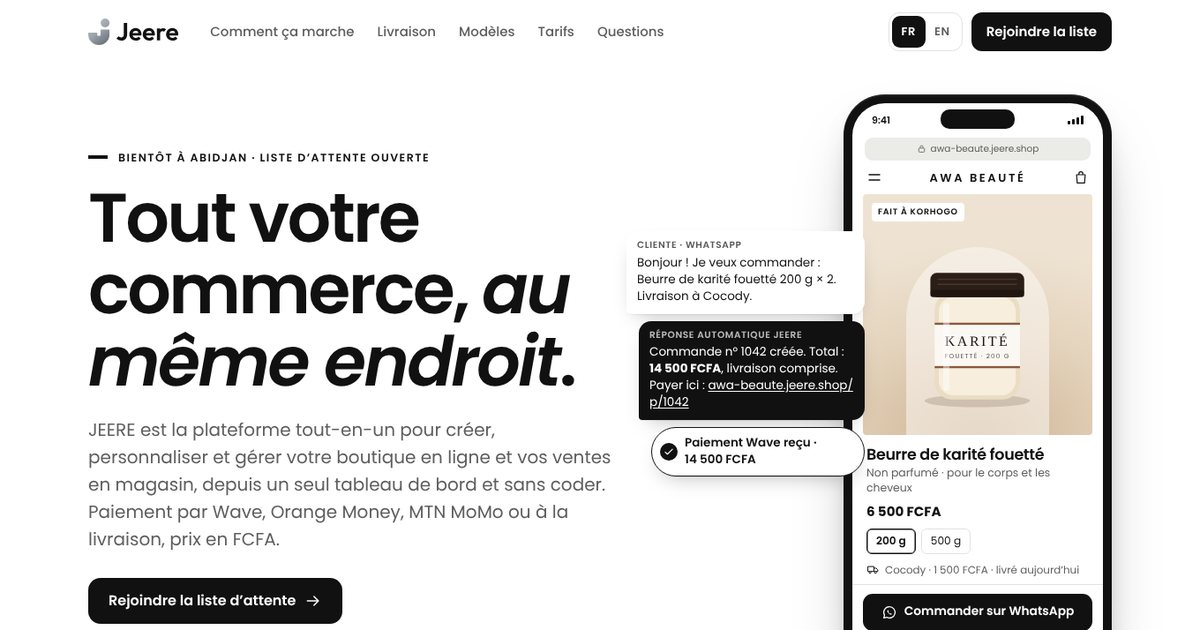
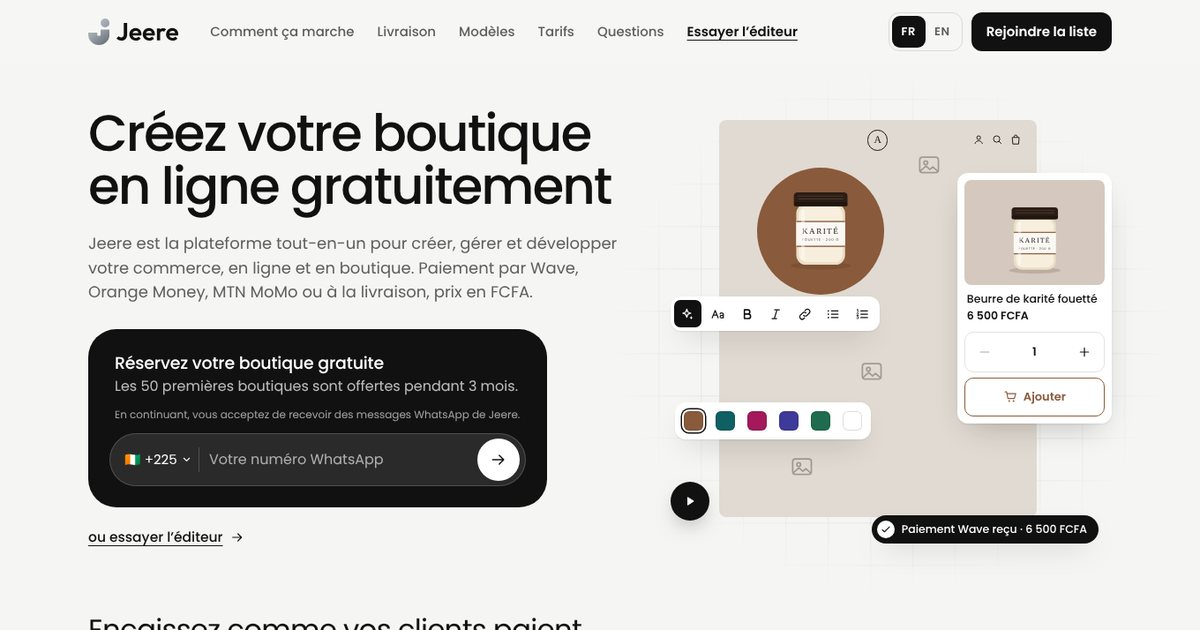
Rebuild the Jeere landing hero in a Shopify-like style
New hero on a light grey band: "Créez votre boutique en ligne
gratuitement", a grey subline, and a black rounded card "Réservez votre
boutique gratuite" with a WhatsApp number pill (+225) and a round arrow
that prefills the waitlist form and takes the visitor to it (nothing is
sent from the hero). On the right, an interactive editor canvas: text
toolbar with the Jeere assistant button, colour swatches that recolour
the store (auto-demo with pause, paused under reduced motion), a product
card with a working stepper, and a "Paiement Wave reçu" chip. Below,
"Encaissez comme vos clients paient" in large type with the payment
chips. English strings, README and share image updated; the old phone
mockup and chat bubbles are gone.

A design review and a QA review found 17 issues; 15 were fixed, one was
not a problem and one optional change was skipped. 519 checks pass at
360, 390, 768 and 1440 px in French and English.

Claude-Session: https://claude.ai/code/session_01TKxGnF4zXs9pxkErArM8zK

diff --git a/concepts/jeere/style.css b/concepts/jeere/style.css
@@ -2,6 +2,13 @@
    Designed at 360 px first, then scaled up. Black and white only.
    No images apart from the share image: every visual is HTML or SVG. */
 
+/* A local font (Arial, Roboto on Android) scaled to Poppins' width and line metrics: nothing to download */
+@font-face {
+  font-family: 'Poppins Fallback';
+  src: local('Arial'), local('ArialMT'), local('Liberation Sans'), local('Roboto'), local('Roboto-Regular'), local('Roboto Regular');
+  size-adjust: 110.6%; ascent-override: 94.9%; descent-override: 31.6%; line-gap-override: 9%;
+}
+
 :root {
   /* JEERE is black and white, nothing else: the sellers' photos and stores bring the colour.
      The "accent" names are kept so every rule has one place to change. */
@@ -21,8 +28,9 @@
   --paper: #fff;
 
   /* Poppins everywhere. Poppins has no ɛ, ɔ or ŋ (Dioula and Bambara names): the page also loads
-     those six letters alone from Montserrat, which the browser uses for them. */
-  --f-display: 'Poppins', 'Montserrat', system-ui, -apple-system, 'Segoe UI', Roboto, Arial, sans-serif;
+     those six letters alone from Montserrat, which the browser uses for them. Until Poppins arrives,
+     'Poppins Fallback' (below) stands in at the same width, so the text does not reflow when it loads. */
+  --f-display: 'Poppins', 'Montserrat', 'Poppins Fallback', system-ui, -apple-system, 'Segoe UI', Roboto, Arial, sans-serif;
   --f-text: var(--f-display);
 
   --r-sm: 10px;
@@ -116,10 +124,17 @@ ul, ol { padding: 0; list-style: none; }
 .head__nav a { font-size: 15px; font-weight: 500; text-decoration: none; color: var(--muted); padding: 10px 0; }
 .head__nav a:hover { color: var(--ink); }
 .head__nav .head__try { color: var(--ink); font-weight: 600; text-decoration: underline; text-underline-offset: 4px; }
+.head__nav a, .head__end .btn { white-space: nowrap; }
 .head__end { display: flex; align-items: center; gap: 10px; }
 .only-wide { display: none; }
 @media (min-width: 560px) { .only-wide { display: inline; } .only-narrow { display: none; } .logo__mark { height: 30px; } .logo__word { height: 20px; } }
 @media (min-width: 1000px) { .head__nav { display: flex; } .head__logo { margin-right: 12px; } .head__nav { margin-right: auto; } }
+/* Small laptops: keep the menu on one line. « Questions » stays in the footer and the FAQ. */
+@media (min-width: 1000px) and (max-width: 1199px) {
+  .head__in, .head__nav { gap: 18px; }
+  .head__nav a { font-size: 14px; }
+  .head__nav a[href="#faq"] { display: none; }
+}
 
 .lang { display: flex; border: 1px solid var(--line); border-radius: 12px; padding: 3px; }
 .lang button {
@@ -130,20 +145,23 @@ ul, ol { padding: 0; list-style: none; }
 
 /* ---------- Hero ---------- */
 /* Light grey band with the sign-up card on the left and the editor canvas on the right */
-.hero { background: var(--grey-1); padding: 24px 0 0; overflow: hidden; }
+/* The next section is grey too: a hairline marks where the hero ends */
+.hero { background: var(--grey-1); padding: 24px 0 0; overflow: hidden; border-bottom: 1px solid var(--line); }
 .hero__grid { display: grid; grid-template-columns: minmax(0, 1fr); gap: 44px; align-items: center; }
 .hero__title {
   font: 500 clamp(40px, 9vw, 76px)/1.03 var(--f-display);
   letter-spacing: -.035em;
   text-wrap: balance;
 }
+@media (max-width: 599px) { .hero__title { font-size: clamp(34px, 10.1vw, 52px); } }
 .hero__lead { font-size: clamp(16.5px, 2.3vw, 19px); line-height: 1.55; color: var(--muted); max-width: 31em; margin-top: 18px; text-wrap: pretty; }
 
 /* The black sign-up card */
-.hero__card { --focus: #fff; max-width: 520px; margin-top: 28px; padding: 22px 16px 16px; border-radius: 28px; background: #111; color: var(--white); }
+.hero__card { --focus: #fff; text-wrap: pretty; max-width: 520px; margin-top: 28px; padding: 22px 16px 16px; border-radius: 28px; background: #111; color: var(--white); }
 .hero__cardTitle { padding: 0 6px; font: 500 18px/1.35 var(--f-display); letter-spacing: -.01em; }
 .hero__cardSub { padding: 0 6px; font-size: 16px; line-height: 1.4; color: rgba(255, 255, 255, .72); margin-top: 2px; }
 .hero__consent { padding: 0 6px; font-size: 12px; line-height: 1.45; color: rgba(255, 255, 255, .6); margin-top: 12px; }
+.hero__cardSub, .hero__consent { text-wrap: balance; }
 .hero__pill {
   display: flex; align-items: center; height: 58px; margin-top: 12px; padding: 0 6px 0 4px;
   border-radius: 999px; background: var(--ink-2); border: 1px solid rgba(255, 255, 255, .18);
@@ -193,12 +211,13 @@ ul, ol { padding: 0; list-style: none; }
 
 .hero__visual { container-type: inline-size; }
 
+@media (min-width: 600px) { .hero { padding-top: 40px; } }
 @media (min-width: 1000px) {
-  .hero { padding-top: 56px; }
+  .hero { padding-top: 48px; }
   .hero__grid { grid-template-columns: minmax(0, 1.1fr) minmax(0, .9fr); gap: 48px; }
-  /* Two columns: the title follows its column so it sets on 2 or 3 balanced lines */
-  .hero__title { font-size: clamp(52px, 4.8vw, 70px); }
-  .hero__lead { margin-top: 22px; }
+  /* 2 balanced lines like the reference, from 1000 px (46 px) to 1920 px (58 px) */
+  .hero__title { font-size: clamp(46px, 5.2vw - 8px, 58px); line-height: 1.04; }
+  .hero__lead { font-size: 18px; max-width: 34em; margin-top: 20px; }
 }
 
 /* ---------- Editor canvas (hero) ----------
@@ -221,6 +240,8 @@ ul, ol { padding: 0; list-style: none; }
 .cv[data-tint="indigo"] { --hc-accent: #3E3A99; }
 .cv[data-tint="menthe"] { --hc-accent: #1E6B4E; }
 .cv[data-tint="blanc"] { --hc-accent: #111111; --hc-bg: #FFFFFF; --hc-soft: #EFEEEB; }
+/* Older browsers without color-mix(): keep a warm page whatever the palette */
+@supports not (color: color-mix(in srgb, red, red)) { .cv:not([data-tint="blanc"]) { --hc-bg: #E1DAD3; --hc-soft: #D6CABF; } }
 
 .cv__grid {
   position: absolute; inset: -10% -14%;
@@ -235,7 +256,8 @@ ul, ol { padding: 0; list-style: none; }
 .cv__logo { position: absolute; top: 2.6%; left: 50%; width: 2em; height: 2em; margin-left: -1em; display: grid; place-items: center; border-radius: 50%; border: 1px solid currentColor; font: 400 .9em/1 Georgia, 'Times New Roman', serif; }
 .cv__icons { position: absolute; top: 3.4%; right: 4.5%; display: flex; gap: .55em; }
 .cv__icons svg { position: static; width: 1.1em; height: 1.1em; }
-.cv__stage { position: absolute; left: 9%; top: 41%; width: 46%; aspect-ratio: 1; border-radius: 50%; background: var(--hc-soft); }
+.cv__stage { position: absolute; left: 9%; top: 41%; width: 46%; aspect-ratio: 1; border-radius: 50%; background: var(--hc-accent); }
+.cv[data-tint="blanc"] .cv__stage { background: var(--hc-soft); }
 .cv__stage svg { left: 18%; top: 4%; width: 64%; height: auto; }
 .cv__ph { width: 2.3em; height: 2.3em; color: var(--hc-ink); opacity: .32; }
 .cv__ph--1 { left: 20%; top: 17%; }
@@ -245,7 +267,7 @@ ul, ol { padding: 0; list-style: none; }
 
 /* Floating editor tools */
 .cv__float { position: absolute; background: var(--white); border-radius: 12px; box-shadow: 0 1px 2px rgba(17, 17, 17, .08), 0 14px 34px -14px rgba(17, 17, 17, .28); }
-.cv__tools { left: 0; top: 30%; display: flex; gap: .15em; padding: .35em; color: var(--ink); }
+.cv__tools { left: 0; top: 26%; display: flex; gap: .15em; padding: .35em; color: var(--ink); }
 .cv__tools span { display: grid; place-items: center; width: 2.35em; height: 2.35em; border-radius: 7px; }
 .cv__tools svg { width: 1.4em; height: 1.4em; }
 .cv__tools .cv__ai { margin-right: .2em; background: var(--ink); color: var(--white); }
@@ -294,27 +316,55 @@ ul, ol { padding: 0; list-style: none; }
 
 .cv__play { position: absolute; left: 0; top: 88%; display: grid; place-items: center; width: 44px; height: 44px; padding: 0; border: 0; border-radius: 50%; background: var(--ink); color: var(--white); cursor: pointer; box-shadow: 0 10px 24px -10px rgba(17, 17, 17, .5); }
 .cv__play:focus-visible { outline-offset: 3px; border-radius: 50%; }
-.cv__play .cv__i-play, .cv__play[aria-pressed="true"] .cv__i-pause { display: none; }
-.cv__play[aria-pressed="true"] .cv__i-play { display: block; }
+.cv__play .cv__i-play, .cv__play[data-paused] .cv__i-pause { display: none; }
+.cv__play[data-paused] .cv__i-play { display: block; }
 html:not(.js) .cv__play { display: none; }
-@media (prefers-reduced-motion: reduce) { .cv { transition: none; } .cv__sw.is-pulse::before { animation: none; } }
+@media (prefers-reduced-motion: reduce) { .cv__sw.is-pulse::before, .cv__chip.is-bump { animation: none; } }
 
-@media (min-width: 600px) {
+/* The layout follows the canvas width, not the screen: narrow canvases (phones, small laptops)
+   keep the tall layout above; from 440 px wide the tools spread like a desktop editor. */
+@container (max-width: 325px) {
+  .cv { aspect-ratio: 330 / 560; }
+  .cv__tools span:nth-child(n+6) { display: none; }
+  .cv__tray { top: 72%; }
+  .cv__play { top: 83%; }
+}
+@container (min-width: 440px) {
   .cv { aspect-ratio: 500 / 540; }
   .cv__page { left: 11%; top: 2%; width: 72%; height: 92%; }
   .cv__stage { left: 10%; top: 12%; width: 44%; }
   .cv__ph--1 { left: 64%; top: 6%; }
-  .cv__ph--2 { left: 40%; top: 52%; }
+  .cv__ph--2 { left: 40%; top: 56%; }
   .cv__ph--3 { left: 30%; top: 88%; }
-  .cv__tools { top: 36%; }
+  .cv__tools { top: 43%; } /* just under the coloured circle */
   .cv__tray { left: 1%; top: 63%; }
   .cv__card { top: 10%; }
   .cv__name, .cv__price { font-size: 12.5px; }
   .cv__play { top: 85%; }
   .cv__chip { right: 3%; bottom: 3%; font-size: 12.5px; }
 }
-/* Two columns: a slightly taller canvas, level with the copy */
-@media (min-width: 1000px) { .cv { aspect-ratio: 500 / 580; } }
+/* Two columns: a square canvas like the reference, level with the copy (after the @container rules so it wins) */
+@media (min-width: 1000px) {
+  .cv { aspect-ratio: 1 / 1; }
+  .cv__page { left: 11%; top: 2%; width: 72%; height: 90%; }
+  .cv__stage { left: 12%; top: 12%; width: 40%; }
+  .cv__ph--1 { left: 62%; top: 8%; }
+  .cv__ph--2 { left: 44%; top: 60%; }
+  .cv__ph--3 { left: 22%; top: 84%; }
+  .cv__tools { top: 42%; }
+  .cv__tray { left: 1%; top: 66%; }
+  .cv__card { top: 14%; }
+  .cv__img { aspect-ratio: 4 / 3; }
+  .cv__img svg { width: 50%; margin-top: 2%; }
+  .cv__play { top: 84%; }
+  .cv__chip { right: 3%; bottom: 2%; }
+}
+/* With a mouse the swatches can be smaller (touch screens keep 44 px targets) */
+@media (min-width: 1000px) and (pointer: fine) {
+  .cv__sw { width: 36px; height: 36px; }
+  .cv__sw::before { inset: 7px; border-radius: 6px; }
+  .cv__tray { padding: 3px; border-radius: 12px; }
+}
 
 /* ---------- Phone mockup (template preview) ---------- */
 .phone {
@@ -332,7 +382,7 @@ html:not(.js) .cv__play { display: none; }
 .paystrip__label { font: 400 clamp(26px, 4vw, 40px)/1.15 var(--f-display); letter-spacing: -.025em; text-wrap: balance; }
 .paystrip__list { display: flex; flex-wrap: wrap; gap: 8px; }
 .paystrip__list li { padding: 8px 14px; border-radius: 999px; background: var(--white); border: 1px solid var(--line); font-size: 14px; font-weight: 600; letter-spacing: -.005em; }
-@media (min-width: 1000px) { .paystrip { gap: 26px; margin-top: 88px; padding-bottom: 96px; } .paystrip__list li { padding: 9px 16px; font-size: 15px; } }
+@media (min-width: 1000px) { .paystrip { gap: 26px; margin-top: 64px; padding-bottom: 88px; } .paystrip__label { font-size: clamp(26px, 2.4vw, 34px); } .paystrip__list li { padding: 9px 16px; font-size: 15px; } }
 
 /* ---------- Sections ---------- */
 .section { padding: 72px 0; }
@@ -558,7 +608,7 @@ html:not(.js) .cv__play { display: none; }
 .join__perks { margin-top: 26px; display: grid; gap: 12px; }
 .join__perks li { display: flex; gap: 12px; align-items: center; font-weight: 500; }
 .join__perks .ico { color: var(--ink); background: var(--accent-light); border-radius: 50%; padding: 3px; width: 24px; height: 24px; }
-.join__card { --focus: var(--ink); background: var(--white); color: var(--ink); border-radius: 26px; padding: 22px 18px; box-shadow: 0 50px 80px -50px rgba(0, 0, 0, .6); }
+.join__card { scroll-margin-top: 16px; --focus: var(--ink); background: var(--white); color: var(--ink); border-radius: 26px; padding: 22px 18px; box-shadow: 0 50px 80px -50px rgba(0, 0, 0, .6); }
 @media (min-width: 600px) { .join__card { padding: 32px; } }
 @media (min-width: 1000px) { .join { grid-template-columns: .9fr 1.1fr; gap: 72px; align-items: start; } .join__copy { position: sticky; top: calc(var(--head-h) + 40px); } }
 

diff --git a/concepts/jeere/site.js b/concepts/jeere/site.js
@@ -267,13 +267,24 @@
   heroForm.addEventListener('submit', function (e) {
     e.preventDefault();
     var raw = heroTel.value.trim();
-    var intl = /^(\+|00)/.test(raw); // "+225 07…" typed in full: the waitlist reads it as is
-    var digits = raw.replace(/\D/g, '').replace(intl ? /^00/ : /^$/, '');
+    var intl = /^(\+|00)/.test(raw); // a number typed with its country code (+33 6…, 00225 07…)
+    var digits = raw.replace(/\D/g, '');
+    if (intl) digits = digits.replace(/^00/, '');
+    // A known country code typed in front: move it to the select, so only the national digits are counted
+    // and the waitlist shows a matching pair (+33 / 6 12 34 56 78). Unknown codes stay as typed.
+    if (intl) {
+      var known = $$('#hero-cc option').map(function (o) { return o.value; })
+        .filter(function (c) { return digits.indexOf(c) === 0; })
+        .sort(function (x, y) { return y.length - x.length; })[0];
+      if (known) { $('#hero-cc').value = known; digits = digits.slice(known.length); intl = false; }
+    }
     if (digits.length < 8) { heroBad(true); heroTel.focus(); return; }
     heroBad(false);
     form.cc.value = $('#hero-cc').value;
     form.phone.value = intl ? '+' + digits : digits;
-    $('#liste').scrollIntoView({ behavior: reduceMotion.matches ? 'auto' : 'smooth', block: 'start' });
+    // In one column the waitlist starts with a long intro: go straight to the form card
+    var target = window.matchMedia('(min-width: 1000px)').matches ? $('#liste') : $('.join__card');
+    target.scrollIntoView({ behavior: reduceMotion.matches ? 'auto' : 'smooth', block: 'start' });
     if (form.hidden) { done.focus({ preventScroll: true }); return; } // already signed up
     nextNote.hidden = false;
     form.first_name.focus({ preventScroll: true });
@@ -289,6 +300,7 @@
 
   /* ---------- Hero canvas: palette swatches, quantity, auto-demo ---------- */
   var cv = $('[data-canvas]');
+  $('.cv__ui', cv).removeAttribute('inert'); // the controls work from here on
   var swatches = $$('[data-swatch]', cv);
   var pauseBtn = $('[data-pause]', cv);
   var qtyOut = $('[data-qty]', cv);
@@ -307,8 +319,9 @@
     clearInterval(demo);
     demo = (paused || hovering || focused || offscreen || document.hidden) ? null : setInterval(function () { pickSwatch(cur + 1, true); }, 2800);
   }
+  // The label says what the button does (« Lancer l’animation » while paused); data-paused swaps the icon
   function syncPause() {
-    pauseBtn.setAttribute('aria-pressed', paused ? 'true' : 'false');
+    if (paused) pauseBtn.setAttribute('data-paused', ''); else pauseBtn.removeAttribute('data-paused');
     pauseBtn.setAttribute('aria-label', pauseBtn.getAttribute(paused ? 'data-label-play' : 'data-label-pause'));
   }
   function updateHero() {
@@ -327,10 +340,16 @@
     var chip = $('[data-chip]', cv);
     chip.classList.remove('is-bump'); void chip.offsetWidth; chip.classList.add('is-bump');
   });
-  pauseBtn.addEventListener('click', function () { paused = !paused; syncPause(); runDemo(); });
+  // An explicit « play » restarts at once, even with the mouse still over the canvas
+  pauseBtn.addEventListener('click', function () {
+    paused = !paused;
+    if (!paused) { hovering = false; pickSwatch(cur + 1, true); }
+    syncPause(); runDemo();
+  });
   cv.addEventListener('pointerenter', function (e) { if (e.pointerType === 'mouse') { hovering = true; runDemo(); } });
   cv.addEventListener('pointerleave', function (e) { if (e.pointerType === 'mouse') { hovering = false; runDemo(); } });
-  cv.addEventListener('focusin', function () { focused = true; runDemo(); });
+  // Focus on the pause button itself does not hold the demo (a click or tap focuses it)
+  cv.addEventListener('focusin', function (e) { focused = e.target !== pauseBtn; runDemo(); });
   cv.addEventListener('focusout', function (e) { if (!cv.contains(e.relatedTarget)) { focused = false; runDemo(); } });
   document.addEventListener('visibilitychange', runDemo);
   if ('IntersectionObserver' in window) {
@@ -340,7 +359,7 @@
   runDemo();
 
   /* ---------- Gentle scroll-in for section headings and cards ---------- */
-  if ('IntersectionObserver' in window && !window.matchMedia('(prefers-reduced-motion: reduce)').matches) {
+  if ('IntersectionObserver' in window && !reduceMotion.matches) {
     var items = $$('.section__head, .feature, .compare__col, .vs, .step, .plan, .receipt, .dia__card, .join__card');
     var io = new IntersectionObserver(function (entries) {
       entries.forEach(function (en) { if (en.isIntersecting) { en.target.classList.add('is-in'); io.unobserve(en.target); } });

diff --git a/concepts/jeere/index.html b/concepts/jeere/index.html
@@ -177,7 +177,8 @@
       </div>
 
       <!-- Editor canvas: a store page being edited, with floating tools. Decorative, except the small
-           "Aperçu interactif" group (colours, quantity, pause), which works and is announced. -->
+           "Aperçu interactif" group (colours, quantity, pause), which works and is announced.
+           The group is inert until site.js runs, so without JavaScript its buttons are not offered. -->
       <div class="hero__visual">
         <p class="vh" data-i18n="hero.canvasAlt">Aperçu de l’éditeur Jeere&nbsp;: une boutique de beurre de karité dont on change les couleurs d’une touche, une barre d’outils de texte avec l’assistant Jeere, une fiche produit à 6&nbsp;500&nbsp;FCFA et un paiement Wave reçu.</p>
         <div class="cv" data-canvas data-tint="karite">
@@ -199,7 +200,7 @@
             <span><svg><use href="#i-list"/></svg></span>
             <span><svg><use href="#i-olist"/></svg></span>
           </div>
-          <div class="cv__ui" role="group" aria-label="Aperçu interactif" data-i18n-attr="aria-label:hero.ui">
+          <div class="cv__ui" role="group" aria-label="Aperçu interactif" data-i18n-attr="aria-label:hero.ui" inert>
             <div class="cv__float cv__tray">
               <button class="cv__sw" type="button" data-swatch="karite" style="--sw:#8A5A3C" aria-pressed="true" aria-label="Couleur Karité" data-i18n-attr="aria-label:hero.swatch.karite"></button>
               <button class="cv__sw" type="button" data-swatch="lagune" style="--sw:#0F5F63" aria-pressed="false" aria-label="Couleur Lagune" data-i18n-attr="aria-label:hero.swatch.lagune"></button>
@@ -220,7 +221,7 @@
               <button class="cv__add" type="button" data-add><svg class="ico" aria-hidden="true"><use href="#i-cart"/></svg><span data-i18n="hero.add">Ajouter</span></button>
             </div>
             <p class="cv__chip" data-chip><span class="cv__ok" aria-hidden="true"><svg class="ico"><use href="#i-check"/></svg></span><span><span data-i18n="hero.paid">Paiement Wave reçu</span> · <span data-hero-total>6&nbsp;500&nbsp;FCFA</span></span></p>
-            <button class="cv__play" type="button" data-pause aria-pressed="false" aria-label="Mettre en pause l’animation" data-label-pause="Mettre en pause l’animation" data-label-play="Lancer l’animation" data-i18n-attr="data-label-pause:hero.pause;data-label-play:hero.play"><svg class="ico cv__i-pause" aria-hidden="true"><use href="#i-pause"/></svg><svg class="ico cv__i-play" aria-hidden="true"><use href="#i-play"/></svg></button>
+            <button class="cv__play" type="button" data-pause aria-label="Mettre en pause l’animation" data-label-pause="Mettre en pause l’animation" data-label-play="Lancer l’animation" data-i18n-attr="data-label-pause:hero.pause;data-label-play:hero.play"><svg class="ico cv__i-pause" aria-hidden="true"><use href="#i-pause"/></svg><svg class="ico cv__i-play" aria-hidden="true"><use href="#i-play"/></svg></button>
           </div>
         </div>
       </div>

diff --git a/concepts/jeere/README.md b/concepts/jeere/README.md
@@ -55,8 +55,14 @@ Numbers are personal data: keep the table private, and delete a row when someone
 
 ## Page
 
-1. Hero: “Tout votre commerce, au même endroit”, the store on a phone (Plateau template) and a WhatsApp order that plays out
-   in three bubbles, then the payment methods.
+1. Hero, on a light grey band: “Créez votre boutique en ligne gratuitement” and a black card that asks for a
+   WhatsApp number. The card sends nothing: it copies the number into the waitlist form, scrolls there and asks for
+   the first name (without JavaScript it simply links to the waitlist). On the right, an editor canvas on a faint grid:
+   a store page (shea butter jar) with floating editor tools: a text toolbar with the Jeere assistant, a colour tray
+   (Karité, Lagune, Hibiscus, Indigo, Menthe, white) that recolours the store, a product card whose quantity updates
+   the “Paiement Wave reçu” chip, and a pause button. The colours change by themselves every 2.8 s until the visitor
+   hovers, focuses or pauses; with reduced motion they start paused. Then “Encaissez comme vos clients paient” with
+   the payment methods.
 2. Tout-en-un: online store, payments, orders and stock, sell everywhere, everything included.
 3. Aujourd’hui / Avec JEERE.
 4. Pourquoi JEERE: nine common complaints about the big e-commerce platforms (six from sellers,
